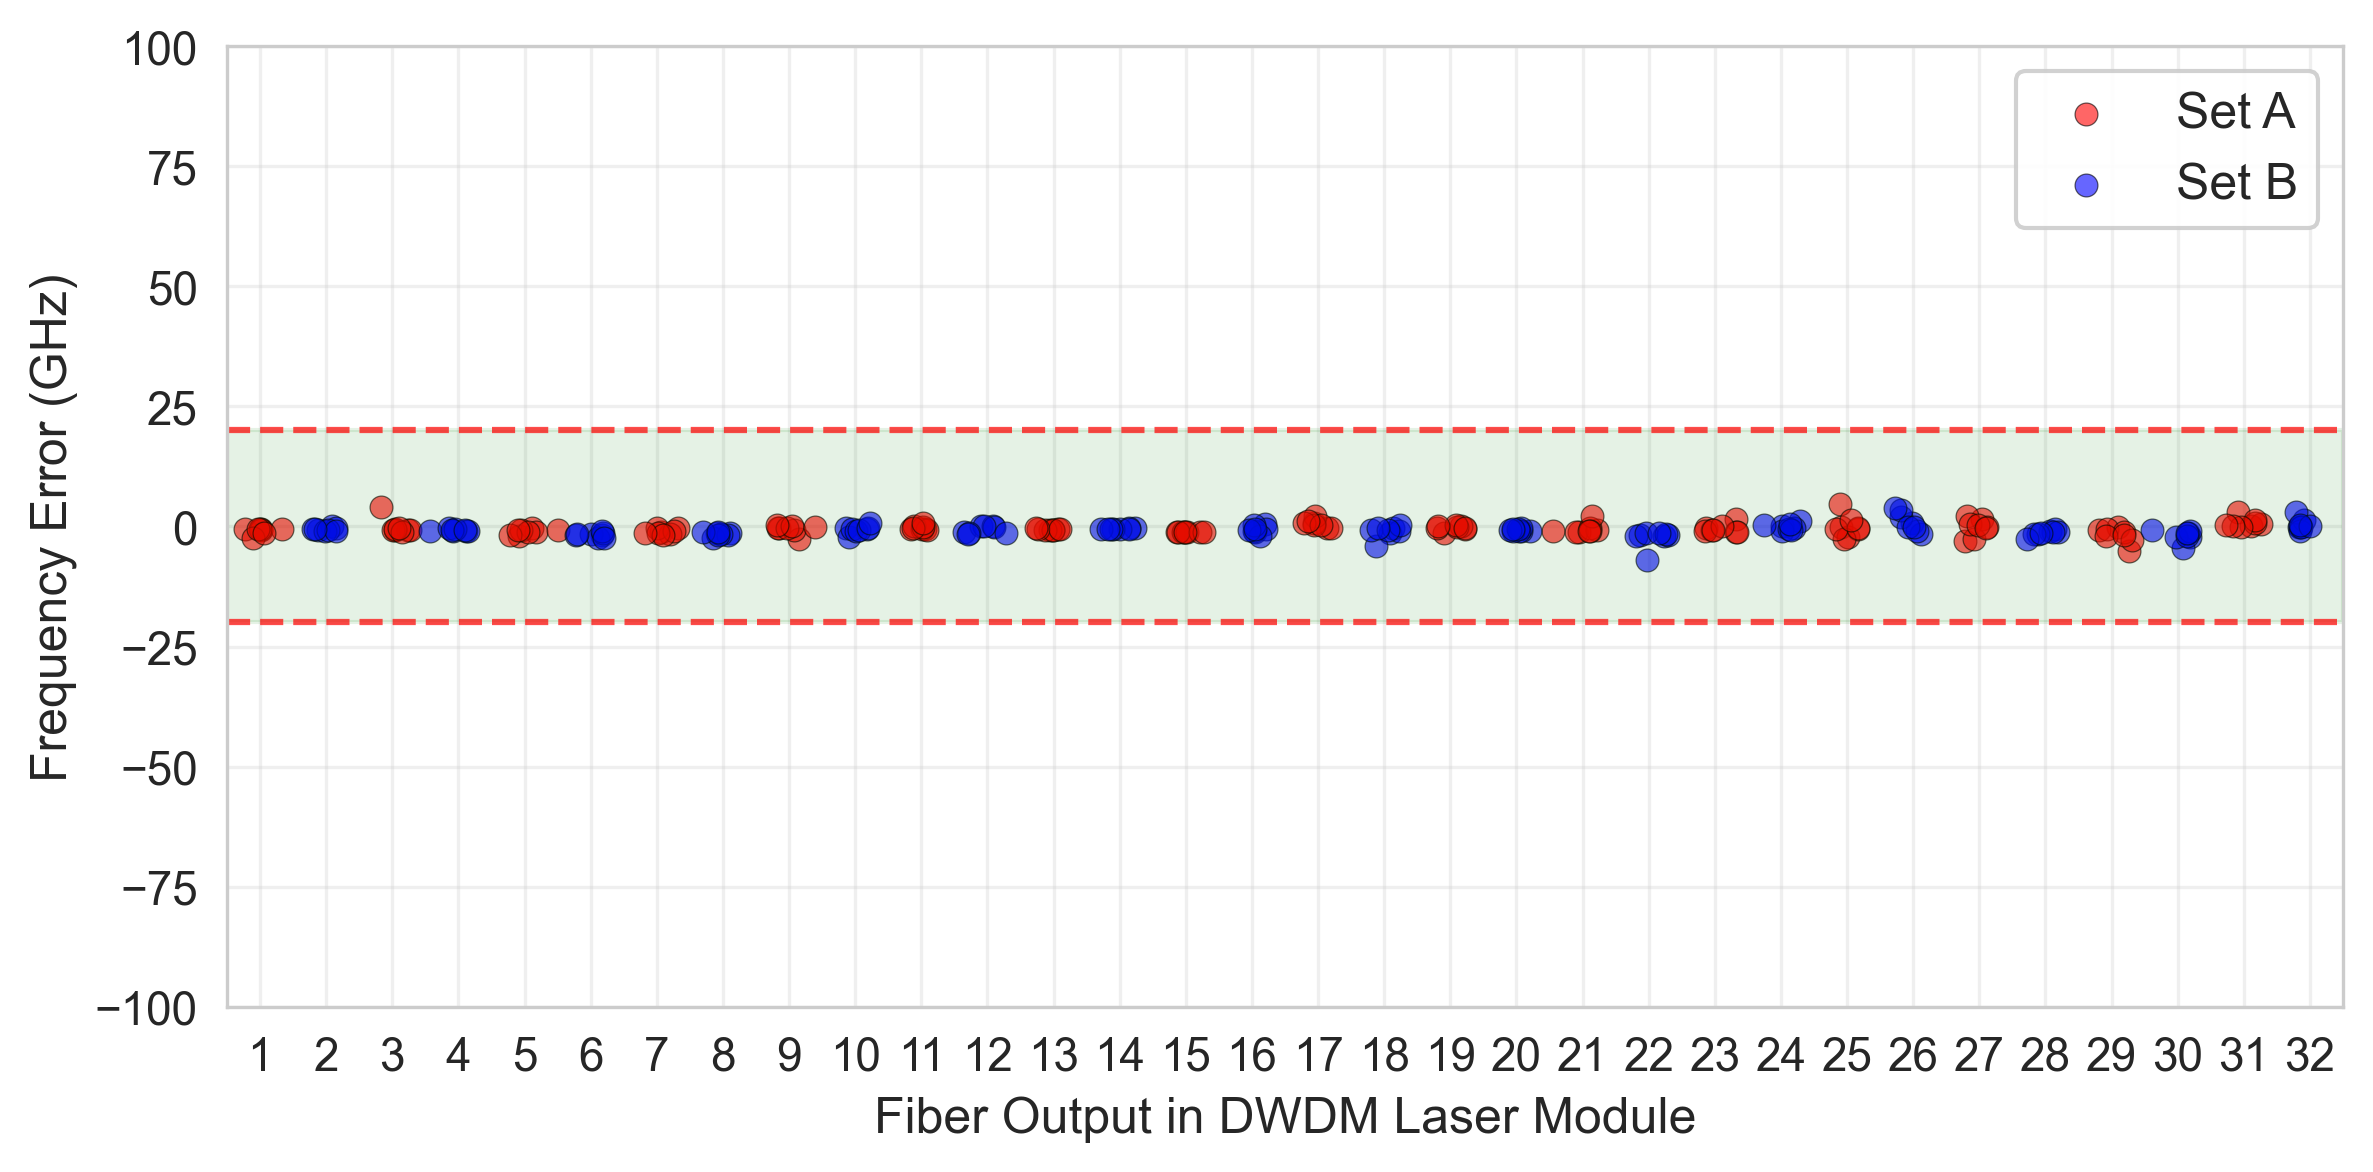
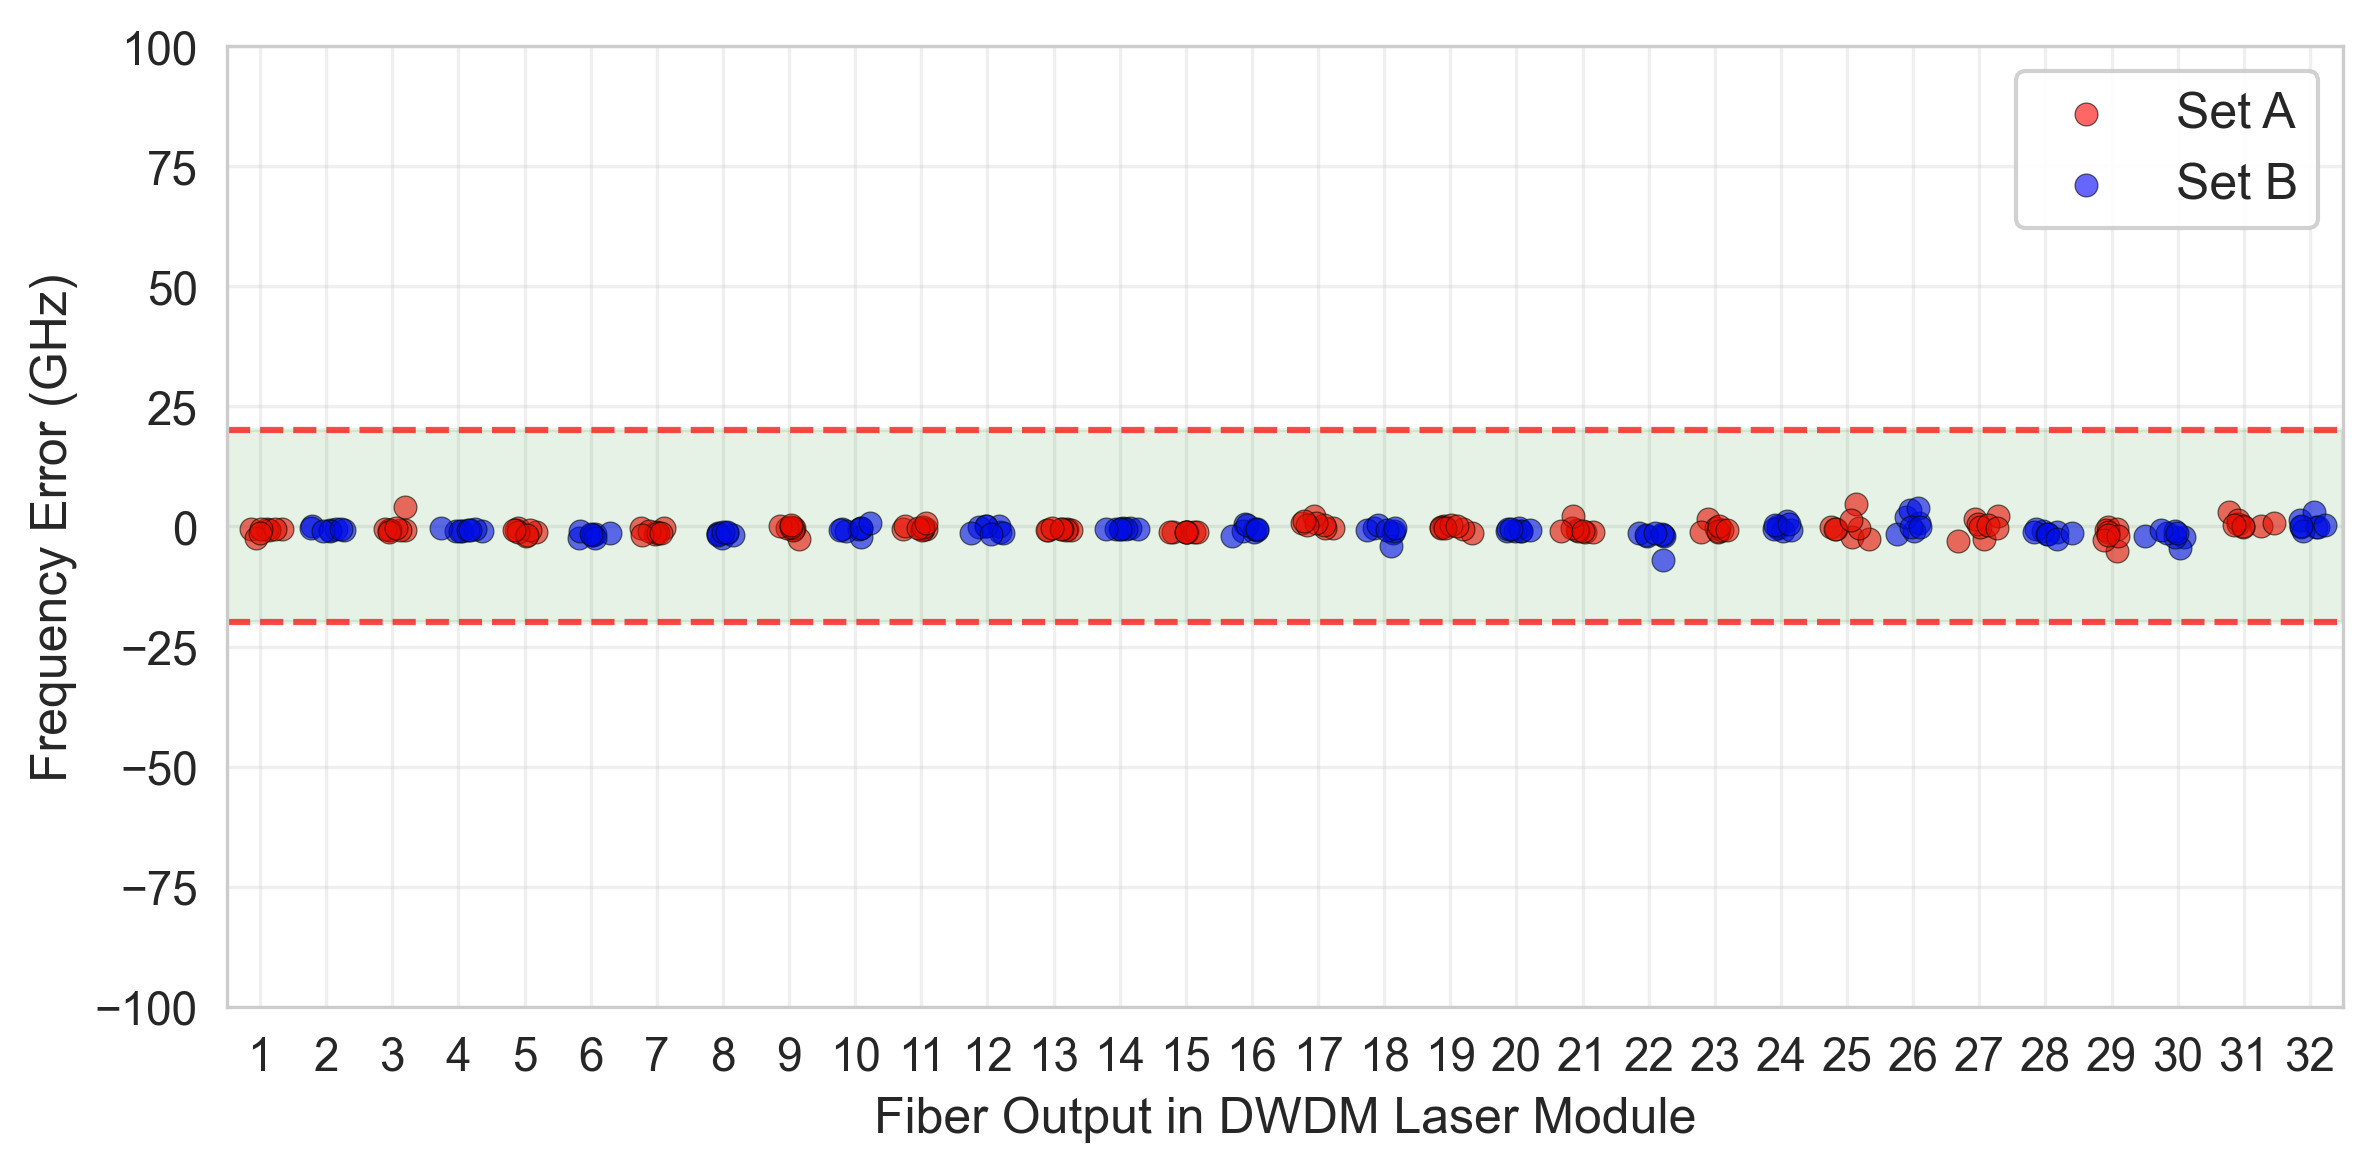
Add 1.1x multiplier for Fiber 19 (Tile 9, BANK_A)
- Added 1.1x correction multiplier for pic_mpd_value of Fiber 19
- Fiber 19 power updated from 96.1 mW to 105.71 mW
- Regenerated optical_power_30C.png and freq_error_30C.png plots

Changed region(s): [[0.0936, 0.3993, 0.9979, 0.4915]]

diff --git a/ips_clm/ips_clm_evt_ofc/analysis_src/module_analysis.py b/ips_clm/ips_clm_evt_ofc/analysis_src/module_analysis.py
@@ -5989,6 +5989,10 @@ class temperature_aggressors_2:
                 
                 # Each value in the array represents a channel
                 for channel_idx, value_uw in enumerate(pic_values_uw):
+                    # Special case: multiply tile 9, bank A by 1.1 (Fiber 19)
+                    if tile_id == 9 and bank_type == 'BANK_A':
+                        value_uw = value_uw * 1.1
+                    
                     # Convert from µW to mW
                     value_mw = value_uw / 1000
                     
